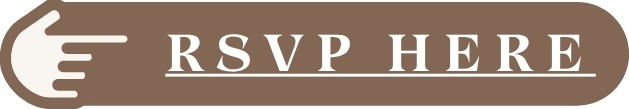
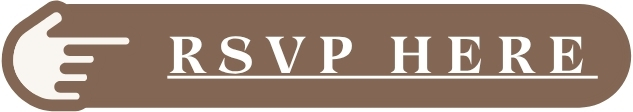
minor adjustments

diff --git a/index.html b/index.html
@@ -104,7 +104,7 @@
   <section id="invitation" class="text-center py-10 px-6" style="background-color: #dcd4cc;">
     <div class="max-w-2xl mx-auto">
       <!-- Intro Text -->
-      <p class="text-2xl sm:text-2xl italic mb-10 mt-12" style="font-family: 'Palatino Linotype', serif; color: #6a6146;">
+      <p class="text-base sm:text-xl italic mb-10 mt-12" style="font-family: 'Palatino Linotype', serif; color: #6a6146;">
         Please join us to celebrate
       </p>
 
@@ -125,6 +125,7 @@
         <br>
         Now, in our eleventh year,<br>
         we’re turning that promise into reality.<br>
+        <br>
         We would be delighted to have you witness as we say
       </p>
 
@@ -234,7 +235,7 @@
         <img 
           src="images/rsvpButton.jpg" 
           alt="RSVP Button" 
-          class="w-52 h-auto rounded-lg shadow-md hover:scale-105 transition-transform duration-300"/>
+          class="w-52 h-auto rounded-lg hover:scale-105 transition-transform duration-300"/>
       </a>
     </div>
   </section>
@@ -433,7 +434,7 @@
   <!-- Attire Guide -->
   <section id="attire" class="text-center py-4 px-4">
     <div class="max-w-md mx-auto">
-      <img src="images/attireGuide.JPEG" alt="Attire Guide" style="width:100%; height:600px;" class="mx-auto my-8" />
+      <img src="images/newAttireGuide.JPEG" alt="Attire Guide" style="width:100%; height:600px;" class="mx-auto my-8" />
     </div>
   </section>
 
@@ -464,7 +465,7 @@
     <div class="absolute inset-0 bg-opacity-60"></div>
 
     <!-- Gift Message Content -->
-    <div id="gift-message" class="relative z-10 flex items-center justify-start md:justify-end h-full px-6 md:px-12">
+    <div id="gift-message" class="relative z-10 flex items-center justify-start md:justify-end h-full px-6 md:px-40">
       <div class="bg-opacity-80 p-4 w-[450px] md:w-[350px] text-center md:text-center text-[#3e2f1c]" style="background-color: #f9f6f2;">
         <img src="images/gift-icon.jpg" alt="Gift icon" class="w-24 h-24 mb-4 mx-auto" />
         <h2 class="text-5xl font-bold mb-6" style="font-family: Allura, cursive;">A Note on Gifts</h2>
@@ -580,7 +581,7 @@
 
   <!-- Footer -->
   <footer class="py-8 text-center">
-    <p class="text-gray-600">Made with ❤</p>
+    <p class="text-gray-600">@ 2025 Anthony & Jazee • Designed with Love | All rights reserved ♡</p>
   </footer>
 
   <audio id="bgMusic" loop>

diff --git a/style.css b/style.css
@@ -287,3 +287,11 @@
     margin-bottom: 0.15rem;
   }
 }
+
+footer p {
+  font-family: 'Georgia', serif; /* Elegant serif font */
+  font-size: 0.7rem;               /* Adjust size as needed */
+  font-weight: 400;              /* Normal weight */
+  line-height: 1.6;              /* Comfortable spacing */
+  letter-spacing: 0.5px;         /* Slight spacing for readability */
+}
